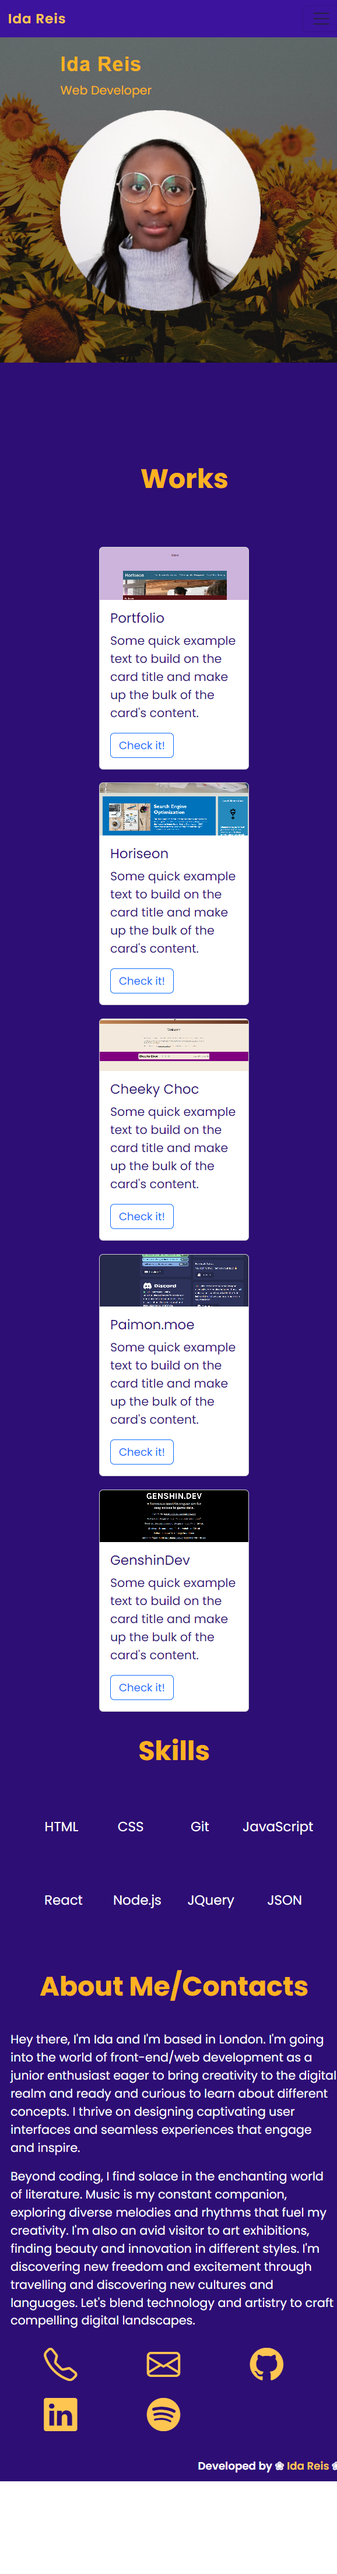
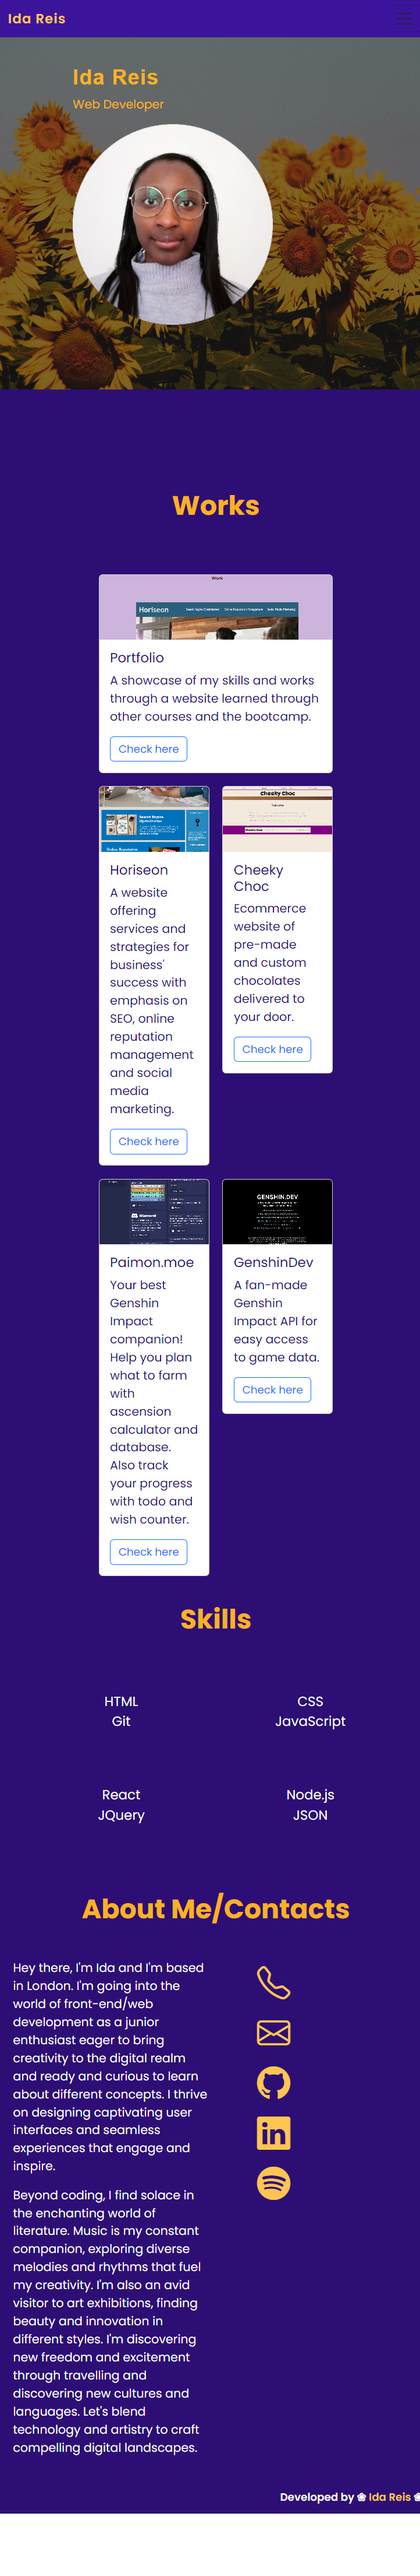
added descriptions to cards, alt texts and changes to README

diff --git a/index.html b/index.html
@@ -49,7 +49,7 @@
         </div>
         <div class="col-lg-5 my-auto profile-image">
             <div class="device-container">
-            <img src="images/ida-modified.png" alt=""><!-- add alt text -->
+            <img src="images/ida-modified.png" alt="profile-picture">
             </div>
         </div>
         </div>
@@ -57,18 +57,18 @@
 </header>
 
 <body>
-<!-- Work section -->
 
+<!-- Work section -->
 <div class="container-fluid workGrid"> <!-- add descriptions and alt -->
     <h2 class="heading" id="myworks">Works</h2>
     <div class="row">
         <div class="col-sm-12" style="padding: 10px;">
             <div class="card">
-                <img src="images/127.0.0.1_5500_index.html.png" class="card-img-top" alt="..." id="portfolio">
+                <img src="images/127.0.0.1_5500_index.html.png" class="card-img-top" alt="screenshot of portfolio" id="portfolio">
                 <div class="card-body">
                     <h5 class="card-title">Portfolio</h5>
-                    <p class="card-text">Some quick example text to build on the card title and make up the bulk of the card's content.</p>
-                    <a href="https://idareis.github.io/ida-profile-portfolio/" class="btn btn-outline-primary" target="_blank">Check it!</a>
+                    <p class="card-text">A showcase of my skills and works through a website learned through other courses and the bootcamp.</p>
+                    <a href="https://idareis.github.io/ida-profile-portfolio/" class="btn btn-outline-primary" target="_blank">Check here</a>
                 </div>
             </div>
         </div>
@@ -76,21 +76,21 @@
     <div class="row">
         <div class="col-sm-6" style="padding: 10px;">
             <div class="card">
-                <img src="images/127.0.0.1_5500_horiseon-code-refactor_index.html.png" class="card-img-top" alt="..." id="horiseon">
+                <img src="images/127.0.0.1_5500_horiseon-code-refactor_index.html.png" class="card-img-top" alt="screenshot of project website" id="horiseon">
                 <div class="card-body">
                     <h5 class="card-title">Horiseon</h5>
-                    <p class="card-text">Some quick example text to build on the card title and make up the bulk of the card's content.</p>
-                    <a href="https://idareis.github.io/horiseon-code-refactor/" class="btn btn-outline-primary" target="_blank">Check it!</a>
+                    <p class="card-text">A website offering services and strategies for business' success with emphasis on SEO, online reputation management and social media marketing.</p>
+                    <a href="https://idareis.github.io/horiseon-code-refactor/" class="btn btn-outline-primary" target="_blank">Check here</a>
                 </div>
             </div>
         </div>
         <div class="col-sm-6" style="padding: 10px;">
             <div class="card">
-                <img src="images/idareis.github.io_final-project-cfg_.png" class="card-img-top" alt="..." id="cheekyChoc">
+                <img src="images/idareis.github.io_final-project-cfg_.png" class="card-img-top" alt="screenshot of project website" id="cheekyChoc">
                 <div class="card-body">
                     <h5 class="card-title">Cheeky Choc</h5>
-                    <p class="card-text">Some quick example text to build on the card title and make up the bulk of the card's content.</p>
-                    <a href="https://idareis.github.io/final-project-cfg/" class="btn btn-outline-primary" target="_blank">Check it!</a>
+                    <p class="card-text">Ecommerce website of pre-made and custom chocolates delivered to your door.</p>
+                    <a href="https://idareis.github.io/final-project-cfg/" class="btn btn-outline-primary" target="_blank">Check here</a>
                 </div>
             </div>
         </div>
@@ -98,21 +98,21 @@
     <div class="row">
         <div class="col-sm-6" style="padding: 10px;">
             <div class="card">
-                <img src="images/paimon.moe_.png" class="card-img-top" alt="..." id="paimonMoe">
+                <img src="images/paimon.moe_.png" class="card-img-top" alt="screenshot of website" id="paimonMoe">
                 <div class="card-body">
                     <h5 class="card-title">Paimon.moe</h5>
-                    <p class="card-text">Some quick example text to build on the card title and make up the bulk of the card's content.</p>
-                    <a href="https://paimon.moe/" class="btn btn-outline-primary" target="_blank">Check it!</a>
+                    <p class="card-text">Your best Genshin Impact companion! Help you plan what to farm with ascension calculator and database. Also track your progress with todo and wish counter.</p>
+                    <a href="https://paimon.moe/" class="btn btn-outline-primary" target="_blank">Check here</a>
                 </div>
             </div>
         </div>
         <div class="col-sm-6" style="padding: 10px;">
             <div class="card">
-                <img src="images/genshin.dev_.png" class="card-img-top" alt="..." id="genshinDev">
+                <img src="images/genshin.dev_.png" class="card-img-top" alt="screenshot of website" id="genshinDev">
                 <div class="card-body">
                     <h5 class="card-title">GenshinDev</h5>
-                    <p class="card-text">Some quick example text to build on the card title and make up the bulk of the card's content.</p>
-                    <a href="https://genshin.dev/" class="btn btn-outline-primary" target="_blank">Check it!</a>
+                    <p class="card-text">A fan-made Genshin Impact API for easy access to game data.</p>
+                    <a href="https://genshin.dev/" class="btn btn-outline-primary" target="_blank">Check here</a>
                 </div>
             </div>
         </div>
@@ -120,7 +120,6 @@
 </div>
 
 <!-- Skills -->
-
 <div class="container-fluid text-center skillsGrid">
     <h2 class="heading" id="skills">Skills</h2>
     <div class="row row-cols-sm-2 row-cols-md-4" style="padding: 2em;">
@@ -140,7 +139,6 @@
 </div>
 
 <!-- About Me -->
-
 <div class="container-fluid" id="about-me-contact">
     <h2 class="heading"  id="about-me">About Me/Contacts</h2>
     <div class="row">
@@ -161,7 +159,6 @@
 </div>
 
 <!-- Footer -->
-
 <p class="footer"> Developed by ❀ <a href="https://github.com/idareis/#">Ida Reis</a> ❀</p>
 
     <script src="https://cdn.jsdelivr.net/npm/@popperjs/core@2.11.8/dist/umd/popper.min.js" integrity="sha384-I7E8VVD/ismYTF4hNIPjVp/Zjvgyol6VFvRkX/vR+Vc4jQkC+hVqc2pM8ODewa9r" crossorigin="anonymous"></script>

diff --git a/css/style.css b/css/style.css
@@ -1,4 +1,4 @@
-
+/*global styles*/
 :root {
     --persianindigo: #2d0e75;
     --mysin: #fbb220;
@@ -43,7 +43,7 @@ p {
 }
 
 
-/* navigation*/
+/* navigation bar*/
 #mainNav{
     background-color: #3c139c;
     font-weight: 400;
@@ -124,6 +124,9 @@ p {
     padding: 7%;
 }
 
+i:hover {
+    box-shadow: 0 2px 5px 0 rgba(0, 0, 0, 0.16), 0 2px 10px 0 rgba(0, 0, 0, 0.12);
+}
 
 /*Footer*/
 .footer {
@@ -133,4 +136,5 @@ p {
     font-size: 16px;
     padding: 2%;
     text-align: end;
+    margin: 0;
 }

diff --git a/README.md b/README.md
@@ -26,7 +26,7 @@ Photo by <a href="https://unsplash.com/@onkysf?utm_content=creditCopyText&utm_me
 
 Credits to <a href="https://github.com/Natalattef">Natalattef</a> for the collaboration for the Cheeky Choc website.
 
-Credits to <a href="https://github.com/MadeBaruna">MadeBaruna</a> and <a href="https://github.com/NurMarvin">Marvin Witt</a> for images and links provided for the open source APIs/applications.
+Credits to <a href="https://github.com/MadeBaruna">MadeBaruna</a> and <a href="https://github.com/NurMarvin">Marvin Witt</a> for images, descriptions and links provided for the open source APIs/applications.
 
   
 
